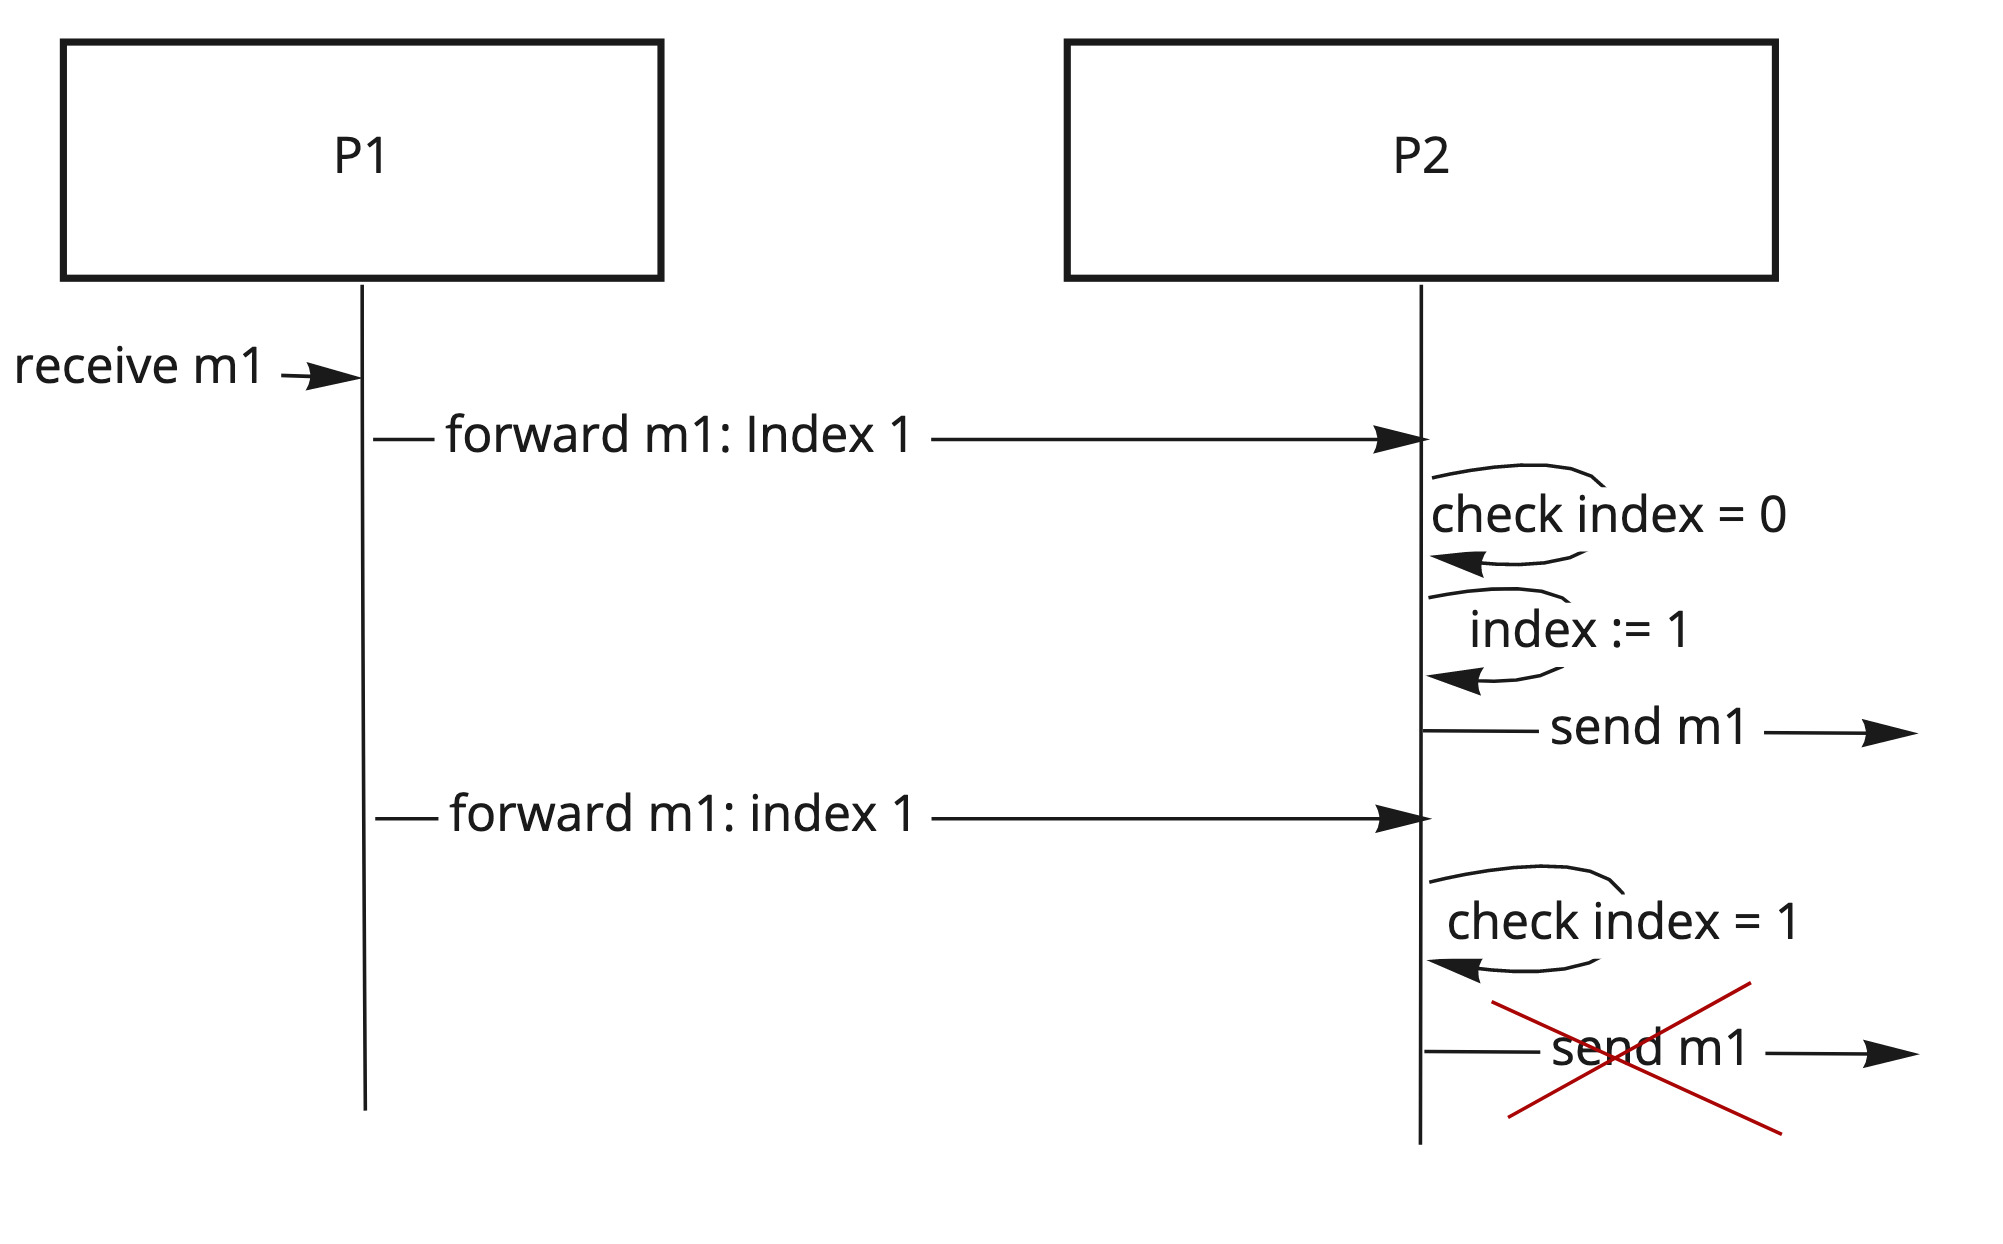
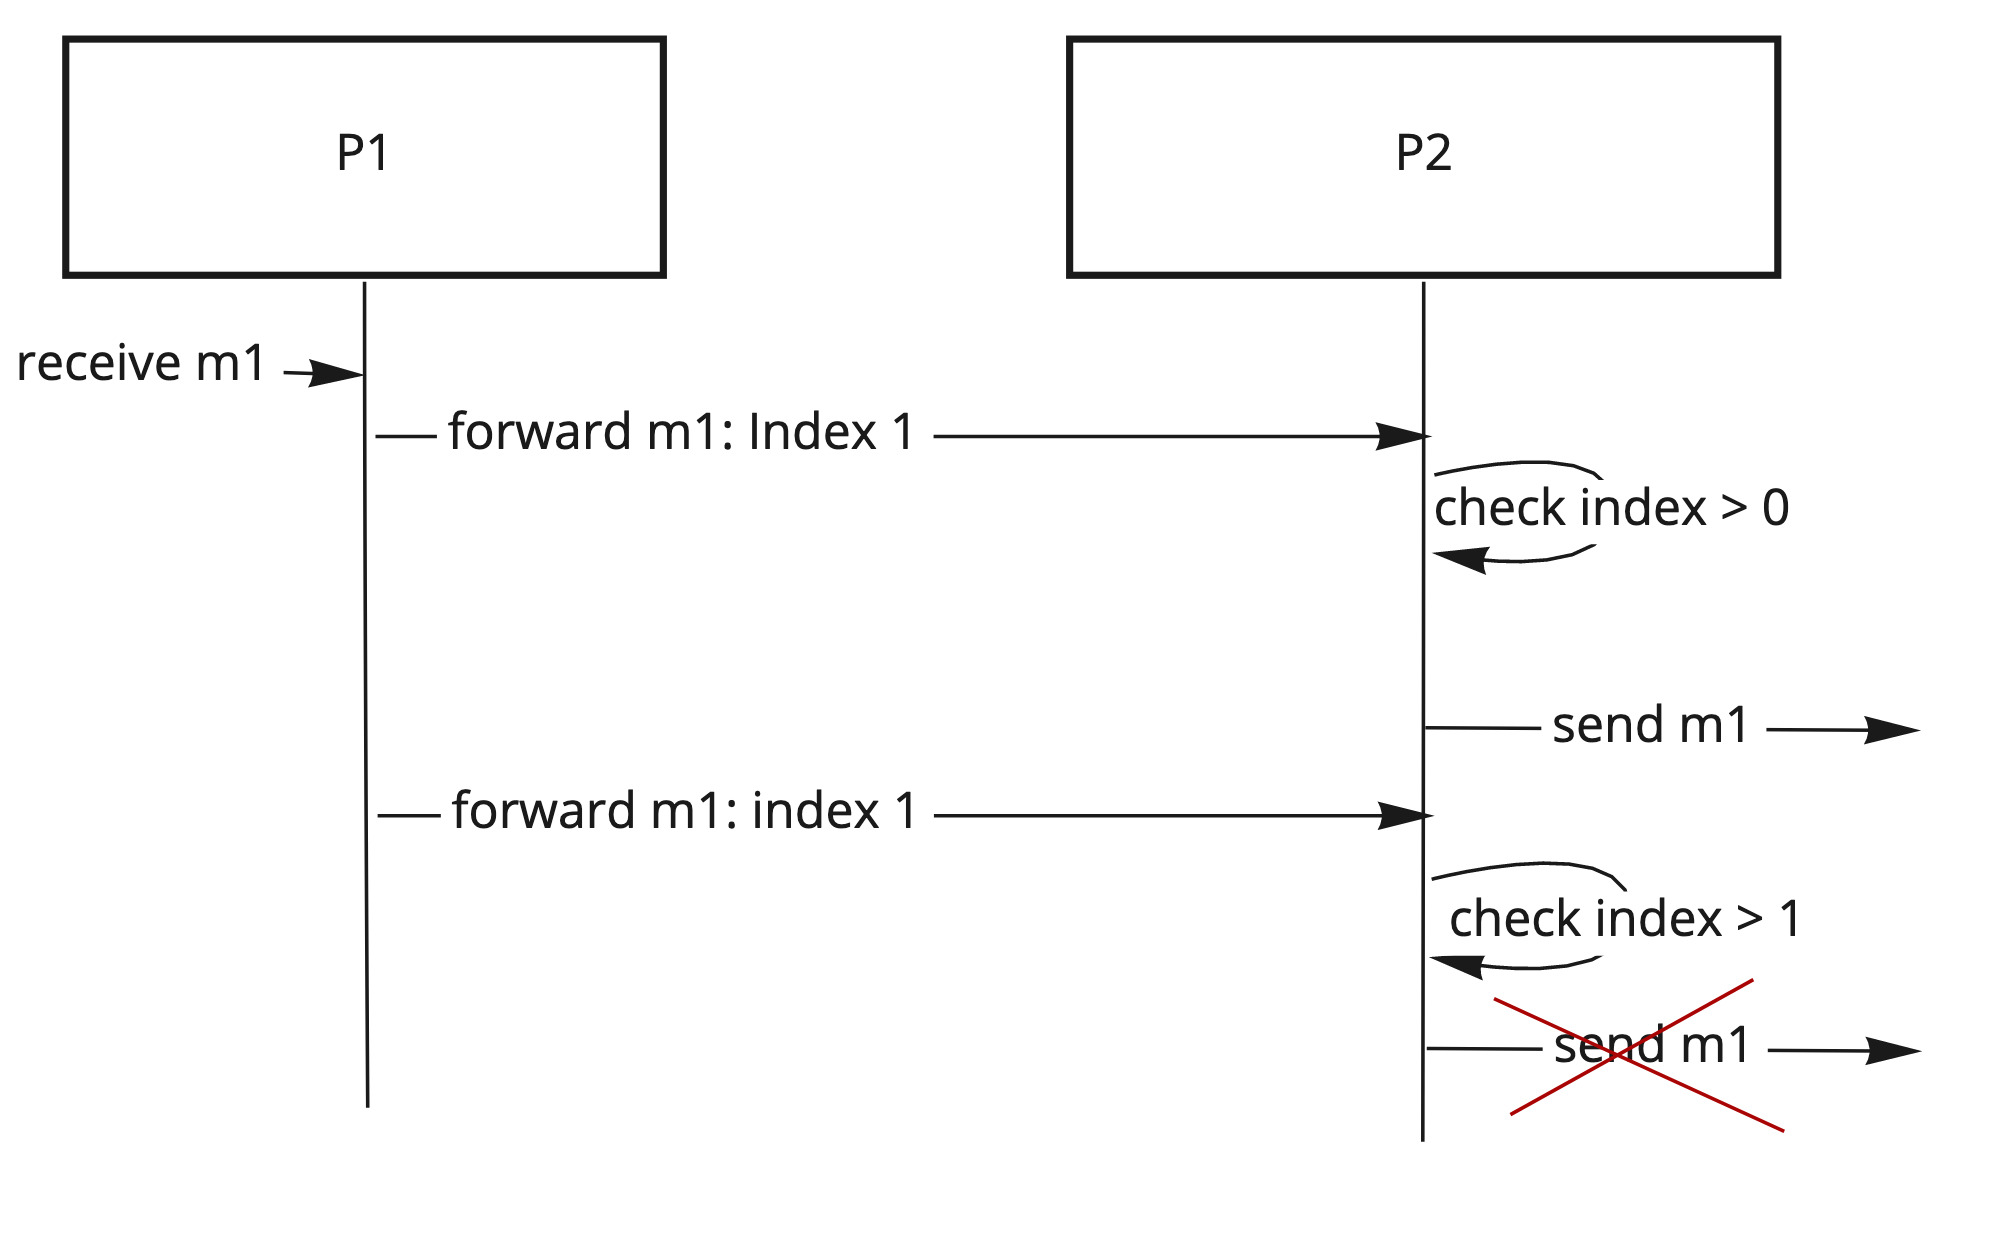
WIP: add missing images

diff --git a/documentation/architecture/messaging/Pipes_Channels.md b/documentation/architecture/messaging/Pipes_Channels.md
@@ -31,7 +31,7 @@ Pipes preserve the return route of the original message BUT do not trace a retur
 Pipes may use a coordinated state and send more messages between sender and receiver to provide
 additional message delivery properties.
 
-<img src="./Pipe.jpg" width="100%">
+<img src="./images/Pipe.jpg" width="100%">
 
 2. Channel - a pair of coordinated workers, C1 and C2, such as:
   - When C1 receives a message with:
@@ -64,7 +64,7 @@ Channels preserver the return route AND trace the return route with the channel 
 Same as pipes, channels may provide additional messaging delivery properties and have more messages
 exchanged between C1 and C2.
 
-<img src="./Channel.jpg" width="100%">
+<img src="./images/Channel.jpg" width="100%">
 
 ## Implementations
 
@@ -79,9 +79,9 @@ Since messages are flowing from the sender, receiver does not initiate the commu
 1. Static pipe - a pipe in which sender is created with a known route to the receiver
 2. Session pipe - a pipe in which sender is created with a session init route and receiver mey be created during the session establishment
 
-<img src="./static_pipe.jpg" width="100%">
+<img src="./images/static_pipe.jpg" width="100%">
 
-<img src="./session_pipe.jpg" width="100%">
+<img src="./images/session_pipe.jpg" width="100%">
 
 Channels:
 
@@ -92,7 +92,7 @@ Channels:
 
 A channel may use two pipes to deliver messages between channel workers
 
-<img src="./Channel_pipes.jpg" width="100%">
+<img src="./images/Channel_pipes.jpg" width="100%">
 
 
 A channel using pipes as means to deliver messages should take into account that pipes do not trace return routes and just pass the incoming message route as a return route.
@@ -140,3 +140,7 @@ What happens here is the channel end which receives a message forwards it throug
 
 Pipe channels can be dynamically established using [pipe channel session process](https://github.com/ockam-network/proposals/blob/main/design/0011-pipes-and-channels/pipe_channel_session.md)
 
+
+Back to: [Delivery properties](Delivery.md)
+
+Implementing specific property pipes: [Pipes Directory](./Pipes_Directory.md)

diff --git a/documentation/architecture/messaging/Pipes_Directory.md b/documentation/architecture/messaging/Pipes_Directory.md
@@ -11,7 +11,7 @@ If Sender does not receive a confirmation in some time - it sends the message ag
 
 If there are unconfirmed messages - Sender buffers them until it gets confirm
 
-**TODO: picture**
+<img src="./images/resend_pipe.jpg" width="100%">
 
 Requirements:
 
@@ -42,7 +42,7 @@ Delivery tolerates failures in the Receiver worker
 Same behaviour as for resend pipe, but instead of buffering unsent messages and waiting for confirm
 Sender sends all messages and tracks multiple unconfirmed messages.
 
-**TODO: picture**
+<img src="./images/resend_multi_pipe.jpg" width="100%">
 
 Requirements:
 
@@ -68,7 +68,7 @@ Stream saves messages to persistent storage using monotonic index
 Receiver fetches messages from the stream with current index
 (optional) After sending messages receiver commits index of latest sent message to the index storage
 
-**TODO: picture**
+<img src="./images/stream_pipe.jpg" width="100%">
 
 Requirements:
 
@@ -105,7 +105,7 @@ Sender buffers messages to send while it's waiting for confirms
 
 Receiver sends a confirm after sending a message
 
-**TODO: picture**
+<img src="./images/sequential_pipe.jpg" width="100%">
 
 Requirements:
 
@@ -125,14 +125,14 @@ Delivery does not tolerate errors in Sender or Receiver
 
 **Due to low error tolerance, low throughput and high inner route requirements, this implementation is not very useful**
 
-## Monotonic index pipe
+## Strict monotonic index pipe
 
 Sender assigns a consecutive index to each message
 
 Receiver keeps track of messages indexes and only sends message if its index is higher then the current
 Receiver sets the current index to the last sent message index
 
-**TODO: picture**
+<img src="./images/index_pipe.jpg" width="100%">
 
 Requirements:
 
@@ -161,7 +161,7 @@ the message is put in the send queue
 If message is the right index, it's sent and current index is set to the message index
 After sending a message with the right index, send queue is checked for the next index, which may be sent
 
-**TODO: picture**
+<img src="./images/index_continuous_pipe.jpg" width="100%">
 
 Requirements:
 

diff --git a/documentation/architecture/messaging/Ordering.md b/documentation/architecture/messaging/Ordering.md
@@ -122,7 +122,7 @@ To enforce continuity, receiver may request missing lower index messages when re
 
 To enforce strictness, receiver doesn't send messages with the same index to already sent messages
 
-<img src="./images/indexed_processing_pipe.jpg" width="100%">
+<img src="./images/index_continuous_pipe.jpg" width="100%">
 
 
 More on pipes and channels: [Pipes and Channels](./Pipes_Channels.md)
